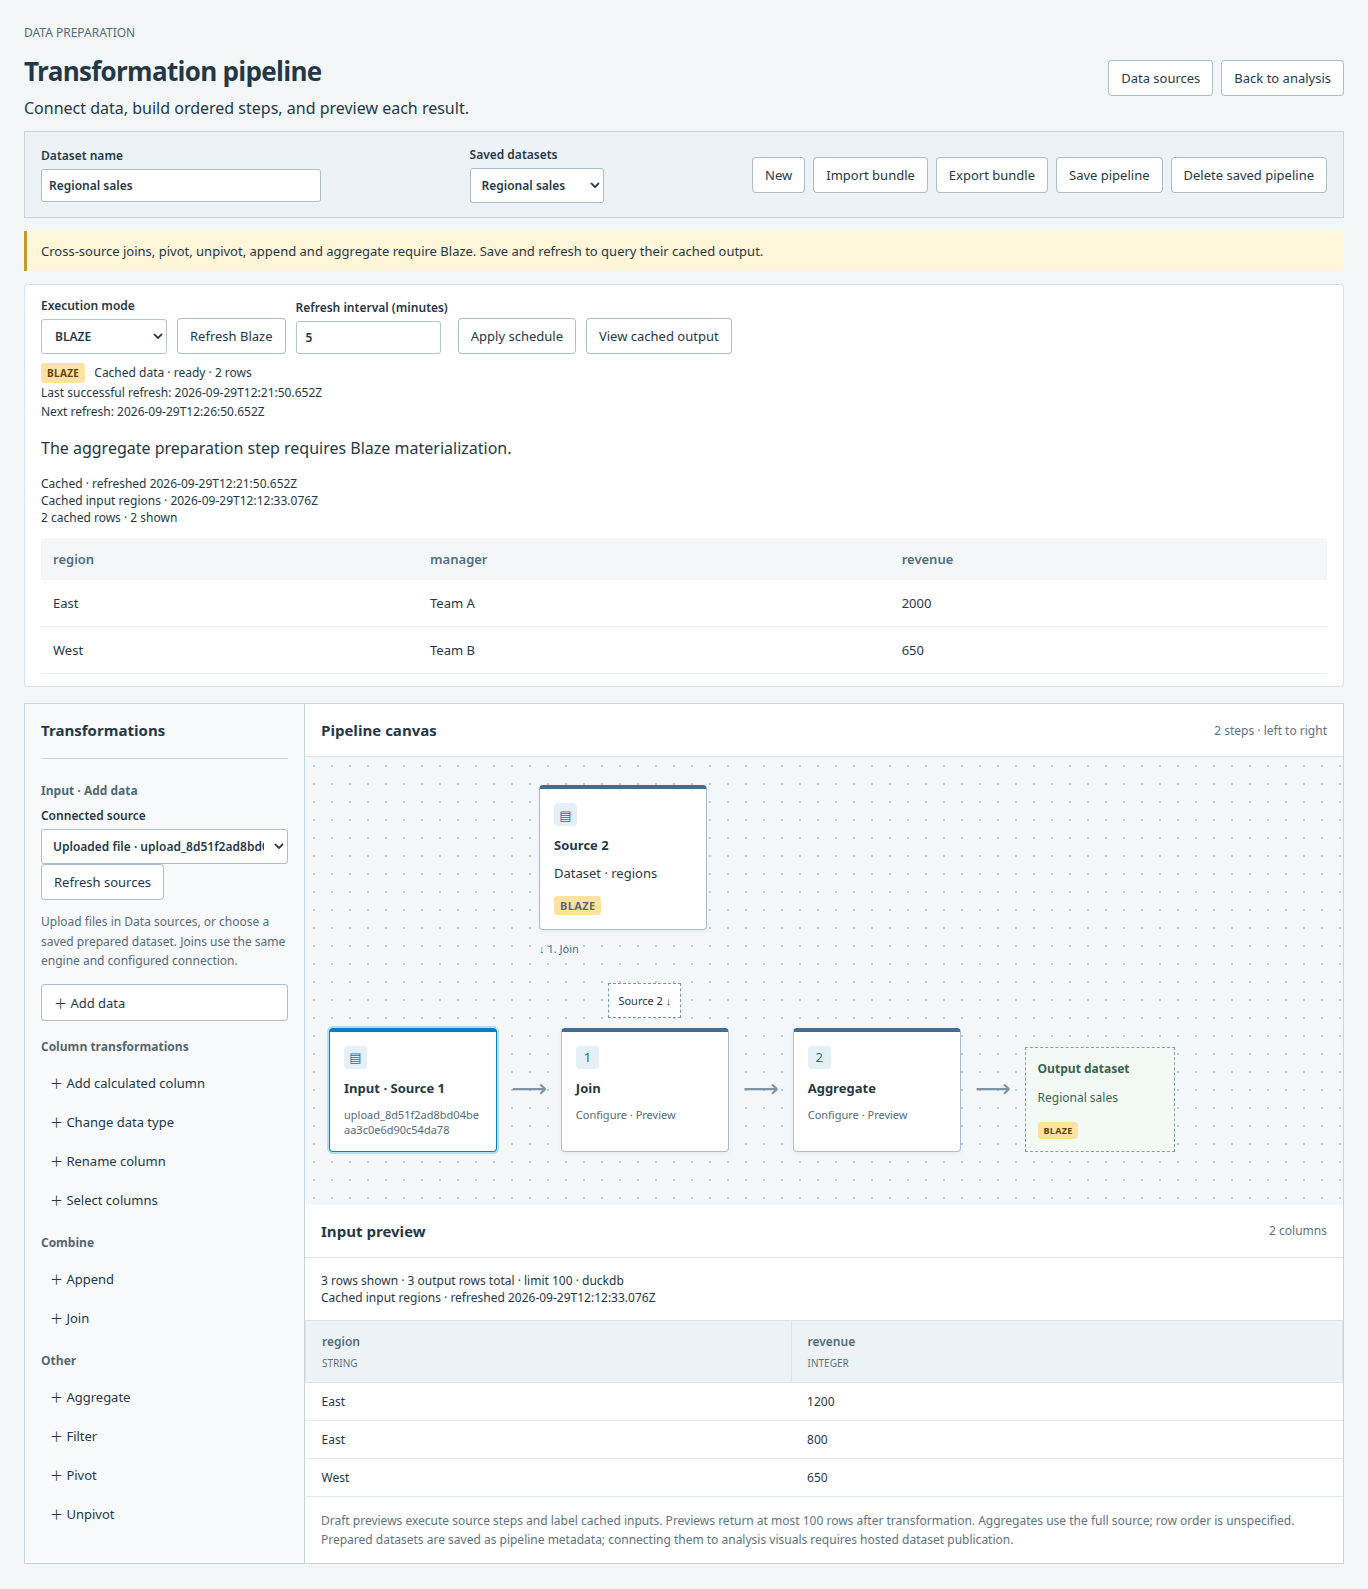
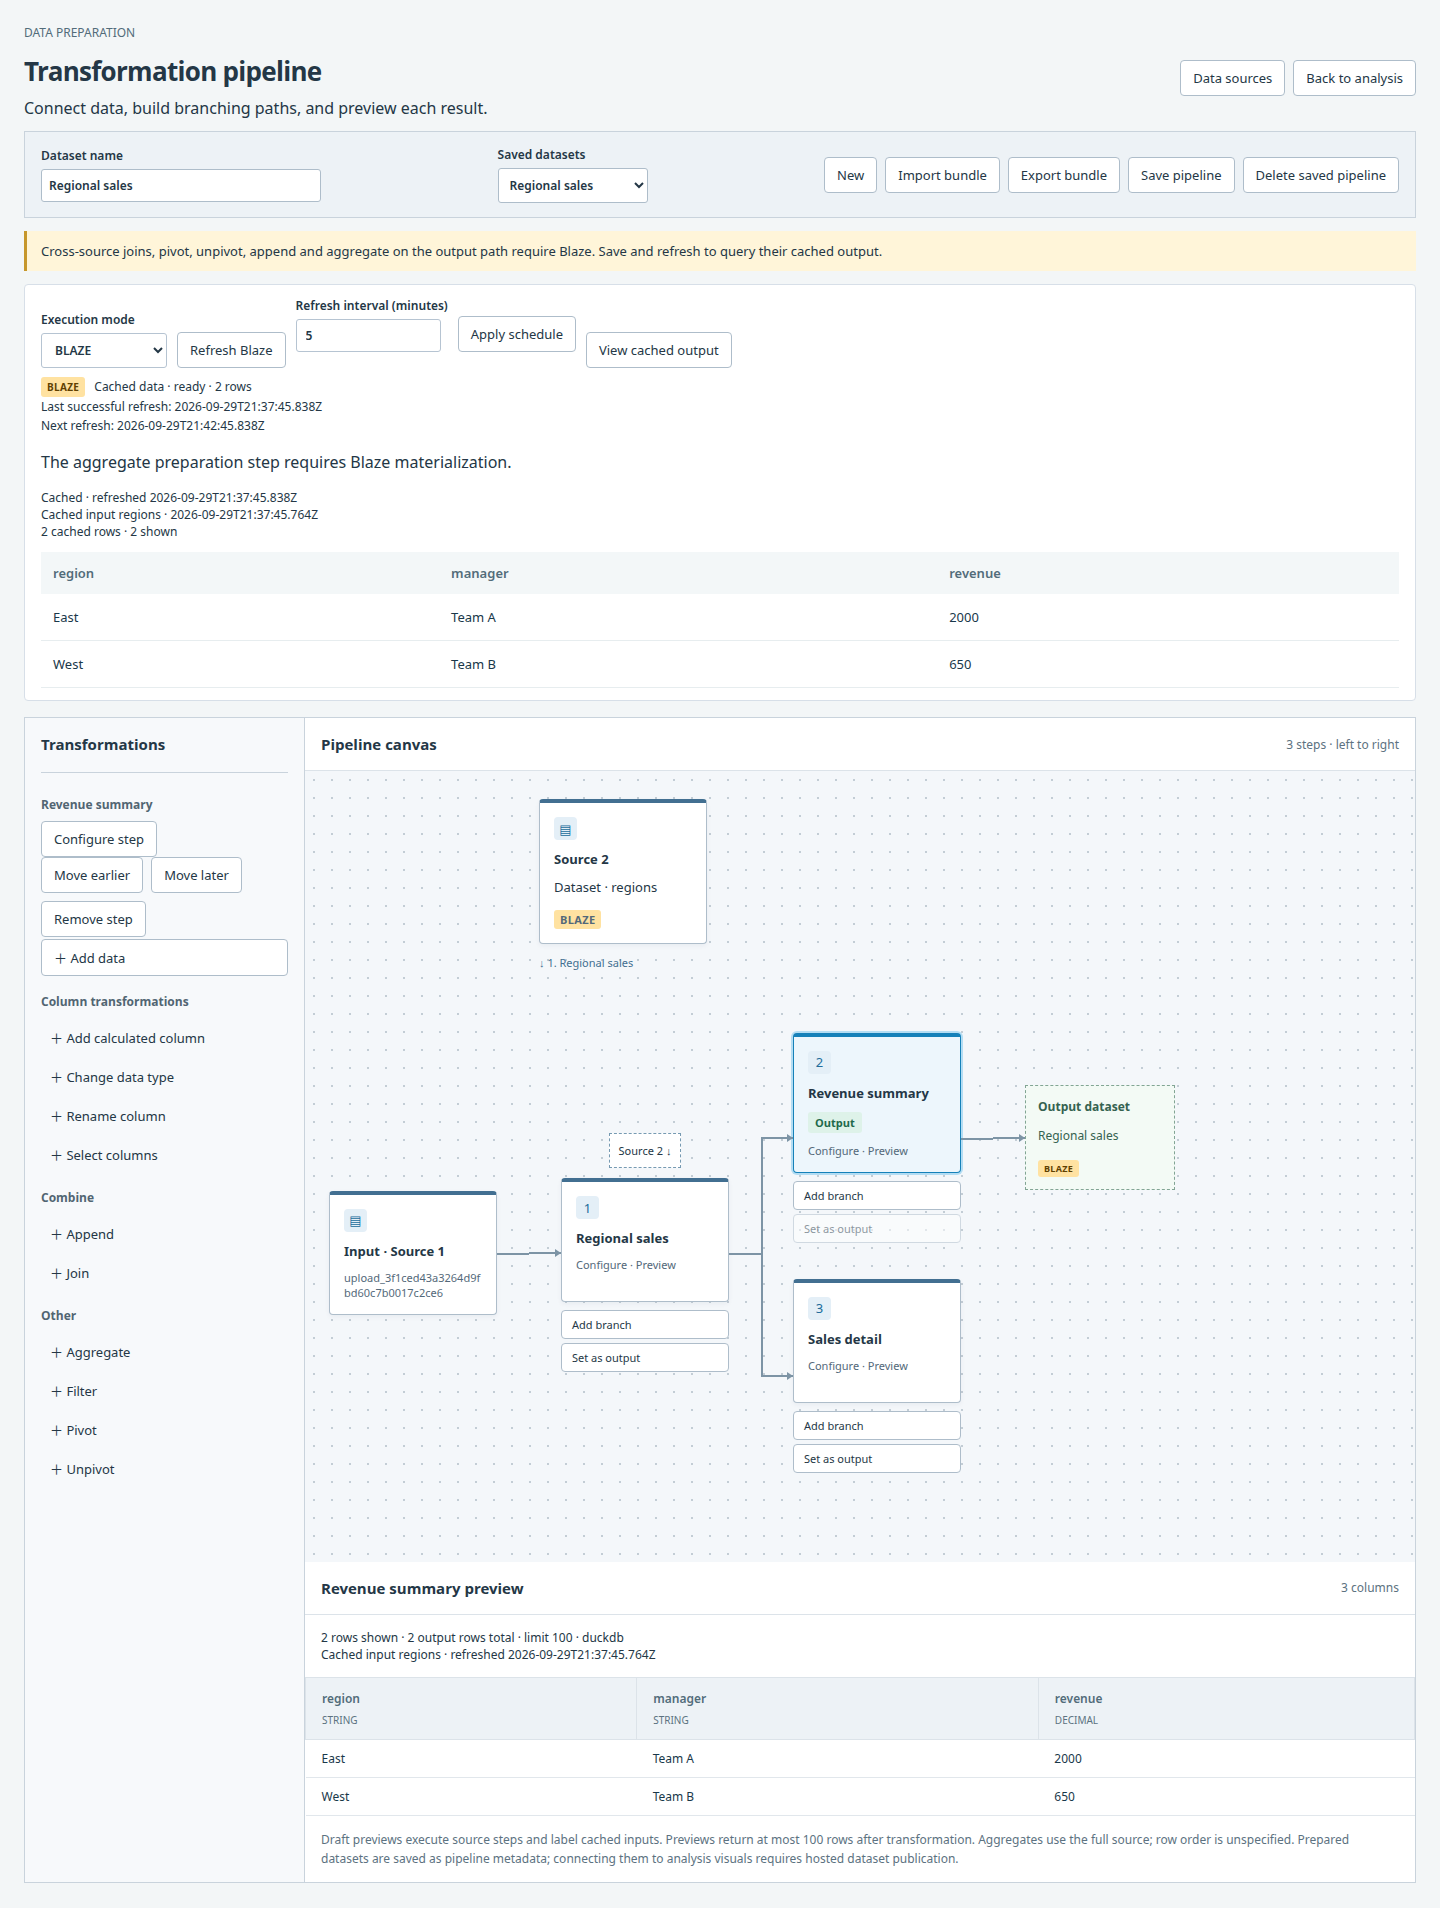
Issue #18: refresh hosted Blaze screenshot with selected branch output

diff --git a/docs/issue-18-gap-notes.md b/docs/issue-18-gap-notes.md
@@ -64,9 +64,15 @@ movement. Captured frames were held three times for readability and assembled
 with the script's 10-fps ffmpeg palette workflow. The resulting GIF is 960×600,
 16.2 seconds, and 162 frames. Every frame decoded successfully; Chromium loaded
 and animated it, and a playback screenshot visibly contains both branches and
-the Output marker. No unaffected feature screenshot needed replacement.
+the Output marker. `docs/images/blaze.png` is also refreshed because it includes the prep canvas.
+A temporary authenticated loopback API used synthetic sales and manager CSVs,
+materialized the selected summary output, and served two actual cached rows
+(East 2000, West 650). The hosted capture shows the branches, Output marker, cache
+status and provenance, with no page errors or external requests. No unaffected
+feature screenshot needed replacement.
 
 Temporary evidence: `/tmp/issue18-browser/` contains desktop/mobile, invalid
 reference, long-name, author, and GIF playback captures, the downloaded bundle,
 and browser check results. `/tmp/issue18-gif/` contains storyboard frames and
-palette output. These are synthetic sample-schema captures with no live rows.
+palette output. The static captures use sample schemas with no live rows. The separate Blaze
+capture uses only synthetic rows executed by the temporary local API.
